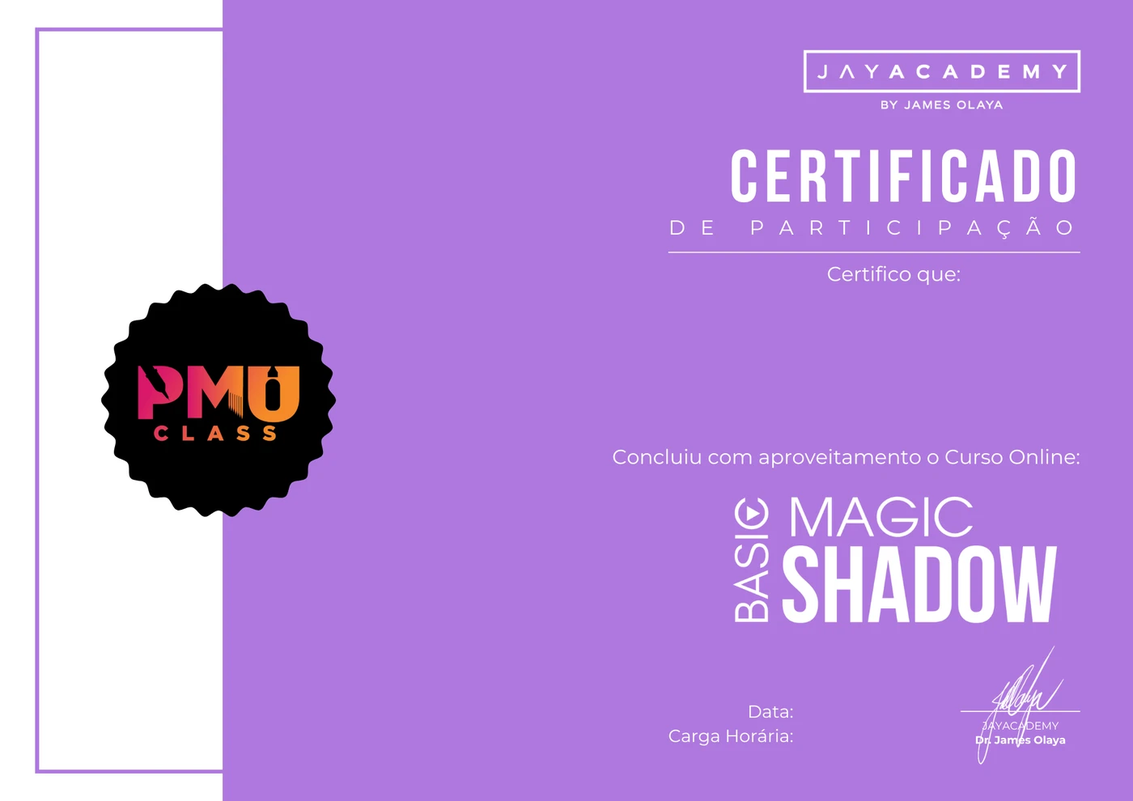
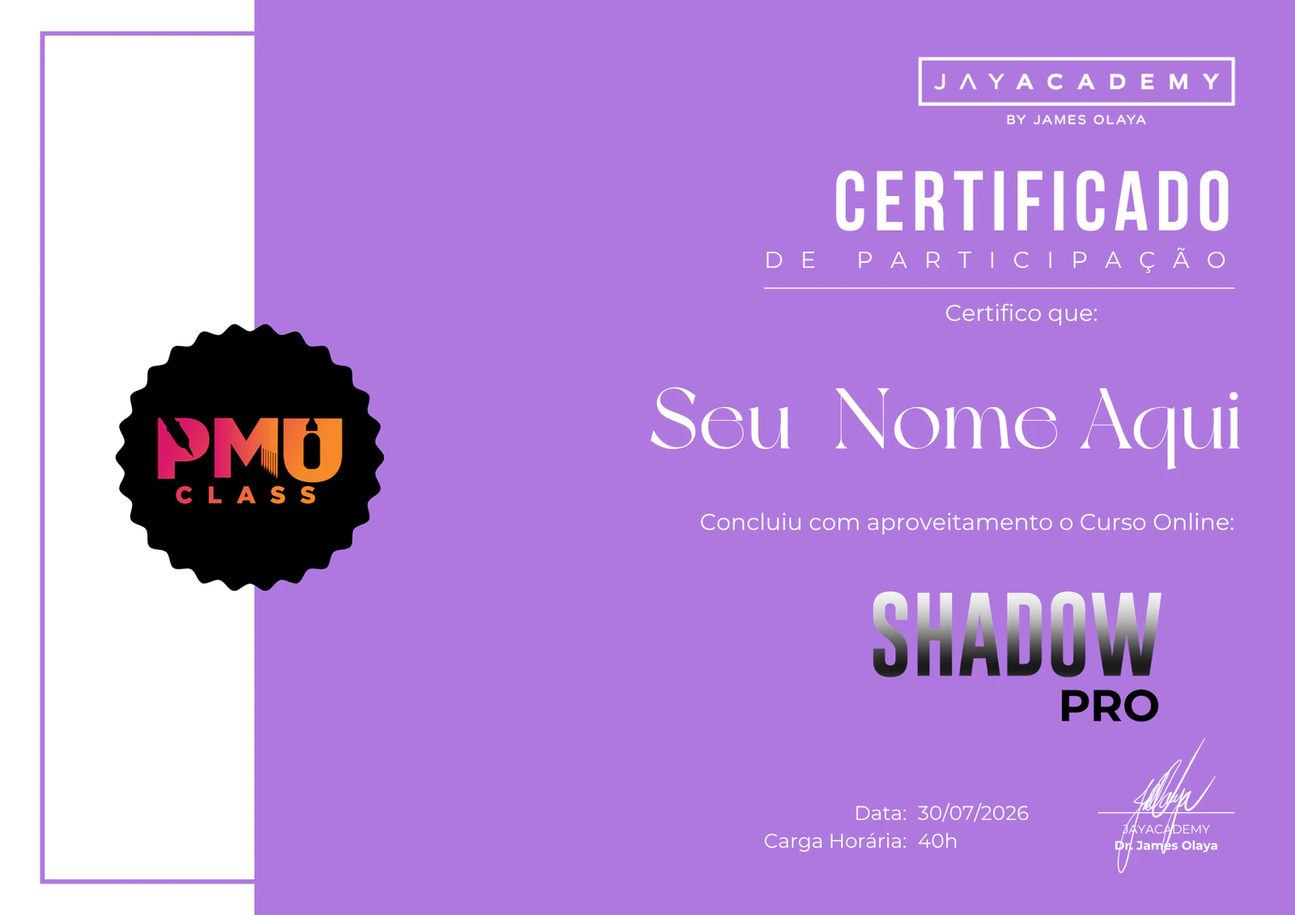
feat(shadow-pro): carrossel OK_RESULTADOS, cicatrizados em cards, oferta redesenhada e certificado certo
- carrossel "Voce tambem pode" refeito com as 10 fotos de OK_RESULTADOS (900x900),
  duas metades identicas p/ o loop infinito
- "Cicatrizados reais": 3 fotos novas + cards (grade no desktop, linhas no mobile)
- oferta: value stack em card unico, preco em Poppins 800 tabular e CTA
  "Quero me inscrever agora" com brilho/pulso respeitando prefers-reduced-motion
- certificado.webp trocado pela arte que diz Shadow PRO (antes dizia Basic Magic Shadow)

diff --git a/lp-html/metodo-shadow-pro.html b/lp-html/metodo-shadow-pro.html
@@ -236,28 +236,37 @@ h1,h2,h3{font-family:'Cormorant Garamond',Georgia,serif;font-weight:700;line-hei
 @media(max-width:640px){.checklist{grid-template-columns:1fr;gap:11px;}.checklist li{padding:15px 15px;}}
 /* ===== CICATRIZADOS (cards com prova) ===== */
 /* ===== CICATRIZADOS — prova sob lente (herói + medalhões ampliados) ===== */
-.proofz{position:relative;max-width:960px;margin:52px auto 0;}
+.proofz{position:relative;max-width:960px;margin:40px auto 0;}
 .proofz__hero{position:relative;border-radius:22px;overflow:hidden;border:1px solid rgba(217,180,88,.28);box-shadow:0 34px 84px rgba(0,0,0,.62);aspect-ratio:16/10;}
 .proofz__hero img{width:100%;height:100%;object-fit:cover;display:block;}
 .proofz__hero::after{content:"";position:absolute;inset:0;pointer-events:none;background:radial-gradient(120% 120% at 50% 40%,transparent 55%,rgba(10,9,12,.45)),linear-gradient(180deg,transparent 58%,rgba(10,9,12,.7));}
 .proofz__stamp{position:absolute;top:16px;right:16px;z-index:3;display:inline-flex;align-items:center;gap:8px;font-family:ui-monospace,'SF Mono',Menlo,monospace;font-size:11px;letter-spacing:.16em;text-transform:uppercase;color:var(--gold2);background:rgba(10,9,12,.55);backdrop-filter:blur(4px);border:1px solid rgba(217,180,88,.4);border-radius:999px;padding:7px 13px;}
 .proofz__stamp::before{content:"";width:7px;height:7px;border-radius:50%;background:#e0563f;box-shadow:0 0 9px #e0563f;}
 .proofz__meta{position:absolute;left:18px;bottom:16px;z-index:3;font-family:ui-monospace,'SF Mono',Menlo,monospace;font-size:11.5px;letter-spacing:.08em;color:#ece0c8;text-shadow:0 2px 10px rgba(0,0,0,.85);}
-.proofz__row{display:flex;justify-content:center;gap:clamp(18px,5vw,60px);margin-top:-58px;position:relative;z-index:4;padding:0 10px;}
-.proofz__lens{display:flex;flex-direction:column;align-items:center;gap:11px;text-align:center;flex:0 0 auto;width:clamp(124px,20vw,176px);}
-.proofz__coin{position:relative;width:clamp(100px,15vw,134px);height:clamp(100px,15vw,134px);border-radius:50%;overflow:hidden;border:3px solid #0a090c;box-shadow:0 0 0 2px var(--gold),0 20px 44px rgba(0,0,0,.62);background:#15121c;transition:transform .4s cubic-bezier(.2,.8,.2,1);}
+.proofz__intro{max-width:680px!important;line-height:1.72;}
+.proofz__row{display:grid;grid-template-columns:repeat(3,minmax(0,1fr));gap:18px;position:relative;z-index:4;}
+.proofz__lens{position:relative;display:flex;flex-direction:column;align-items:center;gap:14px;text-align:center;min-width:0;padding:25px 19px 23px;border:1px solid rgba(217,180,88,.17);border-radius:22px;background:linear-gradient(155deg,rgba(28,23,36,.92),rgba(15,12,19,.96));box-shadow:0 22px 54px rgba(0,0,0,.32);transition:transform .35s ease,border-color .35s ease,box-shadow .35s ease;}
+.proofz__lens:hover{transform:translateY(-5px);border-color:rgba(217,180,88,.42);box-shadow:0 28px 62px rgba(0,0,0,.42);}
+.proofz__coin{position:relative;width:clamp(126px,16vw,166px);height:clamp(126px,16vw,166px);border-radius:50%;overflow:hidden;border:4px solid #0a090c;box-shadow:0 0 0 2px var(--gold),0 20px 44px rgba(0,0,0,.52);background:#15121c;transition:transform .4s cubic-bezier(.2,.8,.2,1);}
 .proofz__lens:hover .proofz__coin{transform:translateY(-5px) scale(1.04);}
 .proofz__coin img{width:100%;height:100%;object-fit:cover;display:block;}
 .proofz__coin::after{content:"";position:absolute;inset:0;border-radius:50%;box-shadow:inset 0 2px 12px rgba(255,255,255,.14),inset 0 -8px 20px rgba(0,0,0,.4);pointer-events:none;}
-.proofz__lens .lbl{display:inline-flex;align-items:center;gap:7px;color:var(--gold2);font-family:'Poppins',sans-serif;font-size:11px;font-weight:700;letter-spacing:.13em;text-transform:uppercase;}
-.proofz__lens .lbl i{font-style:normal;font-family:ui-monospace,monospace;color:var(--gold);opacity:.7;}
-.proofz__lens p{margin:0;color:#c9c1b4;font-size:12.8px;line-height:1.45;}
+.proofz__copy{display:flex;min-width:0;flex-direction:column;align-items:center;gap:8px;}
+.proofz__lens .lbl{display:inline-flex;align-items:center;justify-content:center;gap:8px;color:var(--gold2);font-family:'Poppins',sans-serif;font-size:12px;font-weight:700;letter-spacing:.12em;text-transform:uppercase;line-height:1.35;}
+.proofz__lens .lbl i{display:inline-flex;align-items:center;justify-content:center;flex:0 0 auto;width:28px;height:28px;border-radius:50%;border:1px solid rgba(217,180,88,.38);background:rgba(217,180,88,.08);font-style:normal;font-family:ui-monospace,monospace;font-size:10px;color:var(--gold);}
+.proofz__lens .lbl b{font:inherit;}
+.proofz__lens p{margin:0;color:#c9c1b4;font-size:13px;line-height:1.58;max-width:23ch;}
 @media(max-width:760px){
   .proofz__hero{aspect-ratio:4/5;}
   .proofz__meta{display:none;}
-  .proofz__row{flex-wrap:wrap;gap:26px 14px;margin-top:-46px;}
-  .proofz__lens{width:calc(33.333% - 10px);}
-  .proofz__lens p{font-size:11.5px;}
+  .proofz{margin-top:30px;}
+  .proofz__row{grid-template-columns:1fr;gap:12px;}
+  .proofz__lens{display:grid;grid-template-columns:94px minmax(0,1fr);gap:16px;padding:14px 16px;text-align:left;border-radius:18px;}
+  .proofz__coin{width:90px;height:90px;border-width:3px;}
+  .proofz__copy{align-items:flex-start;gap:6px;}
+  .proofz__lens .lbl{justify-content:flex-start;font-size:11.5px;text-align:left;}
+  .proofz__lens .lbl i{width:25px;height:25px;}
+  .proofz__lens p{max-width:none;font-size:12.5px;line-height:1.5;text-align:left;}
 }
 /* ===== ANTES E DEPOIS (grade) ===== */
 .ba{display:grid;grid-template-columns:repeat(4,1fr);gap:14px;margin-top:42px;}
@@ -354,21 +363,36 @@ h1,h2,h3{font-family:'Cormorant Garamond',Georgia,serif;font-weight:700;line-hei
 .pill{background:var(--card);border:1px solid var(--line);border-radius:999px;padding:10px 20px;color:#e6dfd2;font-size:14px;font-weight:500;display:flex;align-items:center;gap:9px;}
 .pill svg{width:16px;height:16px;}
 /* ===== OFFER / PRICE ===== */
-.offer{background:linear-gradient(180deg,#0a090c 0%,transparent 11%,transparent 89%,#0a090c 100%),radial-gradient(120% 100% at 50% 8%,#1c1710,#0d0a10 60%,#0a090c);}
-.offer__stack{list-style:none;max-width:520px;margin:0 auto 34px;display:grid;gap:2px;}
-.offer__stack li{display:flex;align-items:flex-start;gap:14px;padding:14px 4px;border-bottom:1px solid var(--line2);color:#ece7f0;font-size:clamp(14.5px,1.6vw,16px);font-weight:500;text-align:left;}
+.offer{background:linear-gradient(180deg,#0a090c 0%,transparent 9%,transparent 91%,#0a090c 100%),radial-gradient(100% 70% at 50% 12%,#21190d,#0d0a10 64%,#0a090c);}
+.offer__stack{list-style:none;max-width:700px;margin:32px auto 42px;display:grid;padding:10px 22px;background:linear-gradient(145deg,rgba(28,23,36,.88),rgba(16,13,20,.92));border:1px solid rgba(217,180,88,.16);border-radius:22px;box-shadow:0 22px 55px rgba(0,0,0,.28);}
+.offer__stack li{display:grid;grid-template-columns:auto minmax(0,1fr) auto;align-items:center;gap:14px;padding:17px 4px;border-bottom:1px solid var(--line2);color:#ece7f0;font-size:clamp(14.5px,1.6vw,16px);font-weight:500;text-align:left;}
 .offer__stack li:last-child{border-bottom:none;}
-.offer__stack .chk{margin-top:1px;}
-.offer__stack del{color:#c98;opacity:.85;font-weight:600;white-space:nowrap;}
-.price{max-width:480px;margin:0 auto;background:linear-gradient(#1c1727,#15111e);border-radius:22px;border:1px solid var(--line);box-shadow:0 0 0 1px rgba(217,180,88,.25),0 30px 70px rgba(0,0,0,.55);padding:52px 30px 34px;text-align:center;position:relative;overflow:hidden;}
-.price__k{color:var(--gold);font-size:12px;letter-spacing:.22em;text-transform:uppercase;font-weight:700;margin:2px 0 4px;}
-.price__from{color:var(--muted);font-size:14px;}
-.price__big{font-family:'Cormorant Garamond',serif;color:#fff;font-weight:700;line-height:.95;margin:6px 0 4px;}
-.price__big .x{font-size:clamp(26px,4vw,36px);opacity:.85;}
-.price__big .v{font-size:clamp(50px,10vw,78px);color:var(--gold2);}
-.price__vista{color:var(--gold);font-size:clamp(15px,1.9vw,18px);font-weight:600;margin-bottom:22px;}
+.offer__stack .chk{margin:0;}
+.offer__name{line-height:1.45;}
+.offer__stack del{color:#cda092;opacity:.88;font-size:.9em;font-weight:600;white-space:nowrap;font-variant-numeric:tabular-nums;}
+.price{max-width:540px;margin:0 auto;background:radial-gradient(100% 70% at 50% 0,rgba(217,180,88,.13),transparent 52%),linear-gradient(155deg,#1d1827,#120f19 74%);border-radius:28px;border:1px solid rgba(242,211,138,.3);box-shadow:0 0 0 1px rgba(217,180,88,.12),0 34px 90px rgba(0,0,0,.62),0 0 70px rgba(217,180,88,.08);padding:62px 34px 38px;text-align:center;position:relative;overflow:hidden;}
+.price::after{content:"";position:absolute;left:9%;right:9%;top:0;height:1px;background:linear-gradient(90deg,transparent,var(--gold2),transparent);opacity:.7;}
+.price>*{position:relative;z-index:1;}
+.price__k{color:var(--gold);font-size:clamp(11px,1.4vw,13px);letter-spacing:.2em;text-transform:uppercase;font-weight:700;margin:2px 0 12px;}
+.price__from{color:#c9c1d0;font-size:14px;margin-top:5px;}
+.price__big{display:flex;align-items:center;justify-content:center;gap:13px;color:#fff;line-height:1;margin:14px 0 9px;font-family:'Poppins',system-ui,sans-serif;font-variant-numeric:tabular-nums;}
+.price__big .x{flex:0 0 auto;color:#17100a;background:linear-gradient(180deg,var(--gold2),var(--gold3));border-radius:999px;padding:7px 11px;font-size:clamp(13px,2.2vw,16px);font-weight:800;letter-spacing:.01em;box-shadow:0 8px 22px rgba(184,147,63,.24);}
+.price__big .v{display:inline-flex;align-items:baseline;gap:7px;color:var(--gold2);font-weight:800;letter-spacing:-.045em;}
+.price__big .currency{font-size:clamp(19px,3.2vw,25px);letter-spacing:-.02em;}
+.price__big .amount{font-size:clamp(48px,9vw,70px);}
+.price__vista{display:flex;align-items:baseline;justify-content:center;gap:7px;color:#e7dfec;font-size:13px;margin-bottom:28px;}
+.price__vista strong{color:var(--gold2);font-size:clamp(17px,2.5vw,21px);font-weight:700;font-variant-numeric:tabular-nums;}
 .price .cta{width:100%;box-sizing:border-box;}
-.price__trust{color:var(--muted);font-size:12px;margin-top:16px;}
+.price__cta{position:relative;isolation:isolate;overflow:hidden;display:flex;align-items:center;justify-content:center;gap:12px;min-height:66px;border:1px solid rgba(255,246,215,.68);font-size:clamp(15px,2vw,18px);box-shadow:0 16px 40px rgba(184,147,63,.42),0 0 0 0 rgba(242,211,138,0);animation:priceCtaGlow 3s ease-in-out infinite;}
+.price__cta::before{content:"";position:absolute;z-index:-1;top:-80%;bottom:-80%;left:-55%;width:35%;background:linear-gradient(90deg,transparent,rgba(255,255,255,.78),transparent);transform:rotate(18deg);animation:priceCtaSheen 3.4s cubic-bezier(.4,0,.2,1) infinite;}
+.price__cta b{font-size:24px;font-weight:500;line-height:1;transition:transform .25s ease;}
+.price__cta:hover{transform:translateY(-3px) scale(1.012);}
+.price__cta:hover b{transform:translateX(5px);}
+.price__trust{display:flex;align-items:center;justify-content:center;flex-wrap:wrap;gap:5px 9px;color:var(--muted);font-size:11.5px;margin-top:19px;}
+.price__trust i{color:var(--gold);font-style:normal;}
+@keyframes priceCtaSheen{0%,58%{left:-55%;opacity:0;}64%{opacity:1;}86%,100%{left:125%;opacity:0;}}
+@keyframes priceCtaGlow{0%,100%{box-shadow:0 16px 40px rgba(184,147,63,.4),0 0 0 0 rgba(242,211,138,0);}50%{box-shadow:0 20px 52px rgba(184,147,63,.58),0 0 0 7px rgba(242,211,138,.07);}}
+@media(prefers-reduced-motion:reduce){.price__cta,.price__cta::before{animation:none;}}
 /* ===== GUARANTEE ===== */
 .guar{display:grid;grid-template-columns:auto 1fr;gap:clamp(24px,4vw,44px);align-items:center;max-width:900px;margin:0 auto;background:var(--card);border:1px solid var(--line);border-radius:22px;padding:clamp(30px,4vw,44px);}
 .guar__seal{flex:0 0 auto;width:clamp(110px,14vw,150px);height:clamp(110px,14vw,150px);border-radius:50%;background:radial-gradient(circle at 38% 32%,#2a2233,#14101c);border:2px solid var(--gold);display:flex;flex-direction:column;align-items:center;justify-content:center;box-shadow:0 0 40px rgba(217,180,88,.25);}
@@ -429,11 +453,24 @@ h1,h2,h3{font-family:'Cormorant Garamond',Georgia,serif;font-weight:700;line-hei
 .prob h4{font-size:18px;}
 .prob-vs{text-align:center;font-family:'Cormorant Garamond',serif;font-style:italic;font-size:clamp(20px,2.6vw,30px);color:var(--gold);margin:8px 0 4px;}
 /* ===== oferta com desconto/urgencia ===== */
-.price__badge{position:absolute;top:0;left:50%;transform:translateX(-50%);background:linear-gradient(135deg,#e94b5a,#c0392b);color:#fff;font-family:'Poppins',sans-serif;font-weight:800;font-size:14px;padding:7px 20px;border-radius:0 0 12px 12px;box-shadow:0 10px 22px rgba(192,57,43,.45);letter-spacing:.03em;z-index:2;}
+.price__badge{position:absolute;top:0;left:50%;transform:translateX(-50%);background:linear-gradient(135deg,#e94b5a,#c0392b);color:#fff;font-family:'Poppins',sans-serif;font-weight:800;font-size:14px;padding:9px 24px;border-radius:0 0 14px 14px;box-shadow:0 10px 28px rgba(192,57,43,.42);letter-spacing:.04em;z-index:2;}
 .price__anchor{color:var(--muted);font-size:15px;margin-bottom:2px;}
 .price__anchor s{color:#c98;opacity:.8;}
-.spots{max-width:480px;margin:14px auto 0;background:rgba(233,75,90,.08);border:1px solid rgba(233,75,90,.25);border-radius:12px;padding:12px 18px;color:#f2c4b0;font-size:13px;font-weight:600;display:flex;align-items:center;justify-content:center;gap:9px;}
+.spots{max-width:540px;margin:18px auto 0;background:linear-gradient(135deg,rgba(233,75,90,.09),rgba(233,75,90,.035));border:1px solid rgba(233,75,90,.28);border-radius:14px;padding:14px 20px;color:#f2c4b0;font-size:13px;font-weight:600;display:flex;align-items:center;justify-content:center;gap:11px;}
 .spots svg{width:17px;height:17px;flex:0 0 auto;}
+@media(max-width:520px){
+  .offer__stack{margin-top:26px;padding:7px 15px;border-radius:18px;}
+  .offer__stack li{grid-template-columns:auto minmax(0,1fr);gap:10px 12px;padding:15px 0;}
+  .offer__stack del{grid-column:2;font-size:12.5px;margin-top:-7px;}
+  .price{padding:60px 20px 30px;border-radius:23px;}
+  .price__big{gap:8px;}
+  .price__big .x{padding:6px 9px;}
+  .price__big .v{gap:5px;}
+  .price__cta{min-height:64px;padding-left:18px;padding-right:18px;}
+  .price__trust{max-width:300px;margin-left:auto;margin-right:auto;}
+  .spots{align-items:flex-start;text-align:left;padding:13px 15px;}
+  .spots svg{margin-top:2px;}
+}
 /* ===== RESPONSIVE ===== */
 @media(max-width:900px){
   /* mobile: cena vira banner no topo, texto abaixo (sem texto sobre o James) */
@@ -525,36 +562,28 @@ h1,h2,h3{font-family:'Cormorant Garamond',Georgia,serif;font-weight:700;line-hei
       <button class="carousel__arrow carousel__arrow--l" id="carPrev" type="button" aria-label="Anterior"><svg viewBox="0 0 24 24" width="26" height="26" fill="none" stroke="currentColor" stroke-width="2" stroke-linecap="round" stroke-linejoin="round"><polyline points="15 18 9 12 15 6"/></svg></button>
       <button class="carousel__arrow carousel__arrow--r" id="carNext" type="button" aria-label="Próximo"><svg viewBox="0 0 24 24" width="26" height="26" fill="none" stroke="currentColor" stroke-width="2" stroke-linecap="round" stroke-linejoin="round"><polyline points="9 18 15 12 9 6"/></svg></button>
       <div class="carousel__track" id="carTrack" title="Clique para pausar">
-        <!-- grupo A (14 imagens únicas) -->
-        <figure><img src="/lp/shadow-pro/f1.webp" alt="Resultado aluna Shadow PRO" loading="lazy" decoding="async"></figure>
-        <figure><img src="/lp/shadow-pro/alunas/res-01.webp" alt="Resultado de aluna Jay Academy" loading="lazy" decoding="async"></figure>
-        <figure><img src="/lp/shadow-pro/f2.webp" alt="Resultado aluna Shadow PRO" loading="lazy" decoding="async"></figure>
-        <figure><img src="/lp/shadow-pro/s2.webp" alt="Resultado aluna Shadow PRO" loading="lazy" decoding="async"></figure>
-        <figure><img src="/lp/shadow-pro/f3.webp" alt="Resultado aluna Shadow PRO" loading="lazy" decoding="async"></figure>
-        <figure><img src="/lp/shadow-pro/alunas/res-04.webp" alt="Resultado de aluna Jay Academy" loading="lazy" decoding="async"></figure>
-        <figure><img src="/lp/shadow-pro/s3.webp" alt="Resultado aluna Shadow PRO" loading="lazy" decoding="async"></figure>
-        <figure><img src="/lp/shadow-pro/r2.webp" alt="Resultado aluna Shadow PRO" loading="lazy" decoding="async"></figure>
-        <figure><img src="/lp/shadow-pro/s1.webp" alt="Resultado aluna Shadow PRO" loading="lazy" decoding="async"></figure>
-        <figure><img src="/lp/shadow-pro/alunas/res-08.webp" alt="Resultado de aluna Jay Academy" loading="lazy" decoding="async"></figure>
-        <figure><img src="/lp/shadow-pro/r6.webp" alt="Resultado aluna Shadow PRO" loading="lazy" decoding="async"></figure>
-        <figure><img src="/lp/shadow-pro/alunas/res-09.webp" alt="Resultado de aluna Jay Academy" loading="lazy" decoding="async"></figure>
-        <figure><img src="/lp/shadow-pro/s4.webp" alt="Resultado aluna Shadow PRO" loading="lazy" decoding="async"></figure>
-        <figure><img src="/lp/shadow-pro/alunas/res-10.webp" alt="Resultado de aluna Jay Academy" loading="lazy" decoding="async"></figure>
+        <!-- grupo A (10 imagens únicas, todas de tmp/basic-magic-shadow/OK_RESULTADOS) -->
+        <figure><img src="/lp/shadow-pro/resultados/resultado-01.webp" alt="Resultado real Shadow PRO" loading="lazy" decoding="async"></figure>
+        <figure><img src="/lp/shadow-pro/resultados/resultado-02.webp" alt="Resultado real Shadow PRO" loading="lazy" decoding="async"></figure>
+        <figure><img src="/lp/shadow-pro/resultados/resultado-03.webp" alt="Resultado real Shadow PRO" loading="lazy" decoding="async"></figure>
+        <figure><img src="/lp/shadow-pro/resultados/resultado-04.webp" alt="Resultado real Shadow PRO" loading="lazy" decoding="async"></figure>
+        <figure><img src="/lp/shadow-pro/resultados/resultado-05.webp" alt="Resultado real Shadow PRO" loading="lazy" decoding="async"></figure>
+        <figure><img src="/lp/shadow-pro/resultados/resultado-06.webp" alt="Resultado real Shadow PRO" loading="lazy" decoding="async"></figure>
+        <figure><img src="/lp/shadow-pro/resultados/resultado-07.webp" alt="Resultado real Shadow PRO" loading="lazy" decoding="async"></figure>
+        <figure><img src="/lp/shadow-pro/resultados/resultado-08.webp" alt="Resultado real Shadow PRO" loading="lazy" decoding="async"></figure>
+        <figure><img src="/lp/shadow-pro/resultados/resultado-09.webp" alt="Resultado real Shadow PRO" loading="lazy" decoding="async"></figure>
+        <figure><img src="/lp/shadow-pro/resultados/resultado-10.webp" alt="Resultado real Shadow PRO" loading="lazy" decoding="async"></figure>
         <!-- grupo B — cópia EXATA do grupo A (o loop infinito usa scrollWidth/2) -->
-        <figure><img src="/lp/shadow-pro/f1.webp" alt="Resultado aluna Shadow PRO" loading="lazy" decoding="async"></figure>
-        <figure><img src="/lp/shadow-pro/alunas/res-01.webp" alt="Resultado de aluna Jay Academy" loading="lazy" decoding="async"></figure>
-        <figure><img src="/lp/shadow-pro/f2.webp" alt="Resultado aluna Shadow PRO" loading="lazy" decoding="async"></figure>
-        <figure><img src="/lp/shadow-pro/s2.webp" alt="Resultado aluna Shadow PRO" loading="lazy" decoding="async"></figure>
-        <figure><img src="/lp/shadow-pro/f3.webp" alt="Resultado aluna Shadow PRO" loading="lazy" decoding="async"></figure>
-        <figure><img src="/lp/shadow-pro/alunas/res-04.webp" alt="Resultado de aluna Jay Academy" loading="lazy" decoding="async"></figure>
-        <figure><img src="/lp/shadow-pro/s3.webp" alt="Resultado aluna Shadow PRO" loading="lazy" decoding="async"></figure>
-        <figure><img src="/lp/shadow-pro/r2.webp" alt="Resultado aluna Shadow PRO" loading="lazy" decoding="async"></figure>
-        <figure><img src="/lp/shadow-pro/s1.webp" alt="Resultado aluna Shadow PRO" loading="lazy" decoding="async"></figure>
-        <figure><img src="/lp/shadow-pro/alunas/res-08.webp" alt="Resultado de aluna Jay Academy" loading="lazy" decoding="async"></figure>
-        <figure><img src="/lp/shadow-pro/r6.webp" alt="Resultado aluna Shadow PRO" loading="lazy" decoding="async"></figure>
-        <figure><img src="/lp/shadow-pro/alunas/res-09.webp" alt="Resultado de aluna Jay Academy" loading="lazy" decoding="async"></figure>
-        <figure><img src="/lp/shadow-pro/s4.webp" alt="Resultado aluna Shadow PRO" loading="lazy" decoding="async"></figure>
-        <figure><img src="/lp/shadow-pro/alunas/res-10.webp" alt="Resultado de aluna Jay Academy" loading="lazy" decoding="async"></figure>
+        <figure><img src="/lp/shadow-pro/resultados/resultado-01.webp" alt="Resultado real Shadow PRO" loading="lazy" decoding="async"></figure>
+        <figure><img src="/lp/shadow-pro/resultados/resultado-02.webp" alt="Resultado real Shadow PRO" loading="lazy" decoding="async"></figure>
+        <figure><img src="/lp/shadow-pro/resultados/resultado-03.webp" alt="Resultado real Shadow PRO" loading="lazy" decoding="async"></figure>
+        <figure><img src="/lp/shadow-pro/resultados/resultado-04.webp" alt="Resultado real Shadow PRO" loading="lazy" decoding="async"></figure>
+        <figure><img src="/lp/shadow-pro/resultados/resultado-05.webp" alt="Resultado real Shadow PRO" loading="lazy" decoding="async"></figure>
+        <figure><img src="/lp/shadow-pro/resultados/resultado-06.webp" alt="Resultado real Shadow PRO" loading="lazy" decoding="async"></figure>
+        <figure><img src="/lp/shadow-pro/resultados/resultado-07.webp" alt="Resultado real Shadow PRO" loading="lazy" decoding="async"></figure>
+        <figure><img src="/lp/shadow-pro/resultados/resultado-08.webp" alt="Resultado real Shadow PRO" loading="lazy" decoding="async"></figure>
+        <figure><img src="/lp/shadow-pro/resultados/resultado-09.webp" alt="Resultado real Shadow PRO" loading="lazy" decoding="async"></figure>
+        <figure><img src="/lp/shadow-pro/resultados/resultado-10.webp" alt="Resultado real Shadow PRO" loading="lazy" decoding="async"></figure>
       </div>
     </div></div>
     <script>
@@ -773,7 +802,7 @@ h1,h2,h3{font-family:'Cormorant Garamond',Georgia,serif;font-weight:700;line-hei
   <div class="wrap cert">
     <figure class="cert__ph">
       <span class="ribbon">Certificado oficial</span>
-      <img src="/lp/shadow-pro/certificado.webp" alt="Certificado Jay Academy — assinado por James Olaya">
+      <img src="/lp/shadow-pro/certificado.webp" alt="Certificado Shadow PRO da Jay Academy — assinado por James Olaya">
     </figure>
     <div>
       <span class="eyebrow">Autoridade validada</span>
@@ -794,23 +823,23 @@ h1,h2,h3{font-family:'Cormorant Garamond',Georgia,serif;font-weight:700;line-hei
     <div class="meandro"></div>
     <p class="sec-sub">Comprando agora você leva:</p>
     <ul class="offer__stack">
-      <li><span class="chk"><svg viewBox="0 0 24 24" fill="none" stroke="#1a1206" stroke-width="3.4" stroke-linecap="round" stroke-linejoin="round"><path d="M4 12.5l5 5L20 6.5"/></svg></span>Curso Online Shadow PRO <del>R$&nbsp;997,00</del></li>
-      <li><span class="chk"><svg viewBox="0 0 24 24" fill="none" stroke="#1a1206" stroke-width="3.4" stroke-linecap="round" stroke-linejoin="round"><path d="M4 12.5l5 5L20 6.5"/></svg></span>Bônus: Design de Sobrancelhas com Visagismo <del>R$&nbsp;397,00</del></li>
-      <li><span class="chk"><svg viewBox="0 0 24 24" fill="none" stroke="#1a1206" stroke-width="3.4" stroke-linecap="round" stroke-linejoin="round"><path d="M4 12.5l5 5L20 6.5"/></svg></span>Ebook — Pigmentologia e Colorimetria, o guia final <del>R$&nbsp;97,00</del></li>
-      <li><span class="chk"><svg viewBox="0 0 24 24" fill="none" stroke="#1a1206" stroke-width="3.4" stroke-linecap="round" stroke-linejoin="round"><path d="M4 12.5l5 5L20 6.5"/></svg></span>Possibilidade de acesso vitalício (valor especial) <del>R$&nbsp;297,00</del></li>
-      <li><span class="chk"><svg viewBox="0 0 24 24" fill="none" stroke="#1a1206" stroke-width="3.4" stroke-linecap="round" stroke-linejoin="round"><path d="M4 12.5l5 5L20 6.5"/></svg></span>Atualizações do conteúdo <del>R$&nbsp;197,00</del></li>
-      <li><span class="chk"><svg viewBox="0 0 24 24" fill="none" stroke="#1a1206" stroke-width="3.4" stroke-linecap="round" stroke-linejoin="round"><path d="M4 12.5l5 5L20 6.5"/></svg></span>Certificado de conclusão</li>
-      <li><span class="chk"><svg viewBox="0 0 24 24" fill="none" stroke="#1a1206" stroke-width="3.4" stroke-linecap="round" stroke-linejoin="round"><path d="M4 12.5l5 5L20 6.5"/></svg></span>Desconto exclusivo na Jayloja.com</li>
+      <li><span class="chk"><svg viewBox="0 0 24 24" fill="none" stroke="#1a1206" stroke-width="3.4" stroke-linecap="round" stroke-linejoin="round"><path d="M4 12.5l5 5L20 6.5"/></svg></span><span class="offer__name">Curso Online Shadow PRO</span><del>R$&nbsp;997,00</del></li>
+      <li><span class="chk"><svg viewBox="0 0 24 24" fill="none" stroke="#1a1206" stroke-width="3.4" stroke-linecap="round" stroke-linejoin="round"><path d="M4 12.5l5 5L20 6.5"/></svg></span><span class="offer__name">Bônus: Design de Sobrancelhas com Visagismo</span><del>R$&nbsp;397,00</del></li>
+      <li><span class="chk"><svg viewBox="0 0 24 24" fill="none" stroke="#1a1206" stroke-width="3.4" stroke-linecap="round" stroke-linejoin="round"><path d="M4 12.5l5 5L20 6.5"/></svg></span><span class="offer__name">Ebook — Pigmentologia e Colorimetria, o guia final</span><del>R$&nbsp;97,00</del></li>
+      <li><span class="chk"><svg viewBox="0 0 24 24" fill="none" stroke="#1a1206" stroke-width="3.4" stroke-linecap="round" stroke-linejoin="round"><path d="M4 12.5l5 5L20 6.5"/></svg></span><span class="offer__name">Possibilidade de acesso vitalício (valor especial)</span><del>R$&nbsp;297,00</del></li>
+      <li><span class="chk"><svg viewBox="0 0 24 24" fill="none" stroke="#1a1206" stroke-width="3.4" stroke-linecap="round" stroke-linejoin="round"><path d="M4 12.5l5 5L20 6.5"/></svg></span><span class="offer__name">Atualizações do conteúdo</span><del>R$&nbsp;197,00</del></li>
+      <li><span class="chk"><svg viewBox="0 0 24 24" fill="none" stroke="#1a1206" stroke-width="3.4" stroke-linecap="round" stroke-linejoin="round"><path d="M4 12.5l5 5L20 6.5"/></svg></span><span class="offer__name">Certificado de conclusão</span></li>
+      <li><span class="chk"><svg viewBox="0 0 24 24" fill="none" stroke="#1a1206" stroke-width="3.4" stroke-linecap="round" stroke-linejoin="round"><path d="M4 12.5l5 5L20 6.5"/></svg></span><span class="offer__name">Desconto exclusivo na Jayloja.com</span></li>
     </ul>
     <div class="price">
       <span class="price__badge">🔥 OFERTA</span>
       <div class="price__k">Pacote completo · Condição promocional</div>
       <div class="price__anchor">de <s>R$&nbsp;1.985,00</s></div>
       <div class="price__from">hoje por apenas</div>
-      <div class="price__big"><span class="x">12x</span> <span class="v">R$&nbsp;10,03</span></div>
-      <div class="price__vista">ou R$ 97,00 à vista</div>
-      <a class="cta" href="https://pay.hotmart.com/E98531587I?checkoutMode=10&off=k2warcrt">Quero garantir meu acesso</a>
-      <div class="price__trust">Compra segura · Acesso imediato · Garantia de 7 dias</div>
+      <div class="price__big"><span class="x">12×</span><span class="v"><span class="currency">R$</span><span class="amount">10,03</span></span></div>
+      <div class="price__vista"><span>ou</span><strong>R$ 97,00</strong><span>à vista</span></div>
+      <a class="cta price__cta" href="https://pay.hotmart.com/E98531587I?checkoutMode=10&off=k2warcrt"><span>Quero me inscrever agora</span><b aria-hidden="true">→</b></a>
+      <div class="price__trust"><span>Compra segura</span><i>•</i><span>Acesso imediato</span><i>•</i><span>Garantia de 7 dias</span></div>
     </div>
     <div class="spots"><svg viewBox="0 0 24 24" fill="none" stroke="#e97" stroke-width="2" stroke-linecap="round" stroke-linejoin="round"><circle cx="12" cy="12" r="9"/><path d="M12 8v4M12 16h.01"/></svg> Condição promocional: o valor pode subir sem aviso. Entrando hoje, você trava esse preço.</div>
   </div>
@@ -836,23 +865,29 @@ h1,h2,h3{font-family:'Cormorant Garamond',Georgia,serif;font-weight:700;line-hei
     <span class="eyebrow c">Sem filtro, sem fantasia</span>
     <h2 class="sec-title">Cicatrizados reais, <span class="gold">sem fantasia</span></h2>
     <div class="meandro"></div>
-    <p class="sec-sub">Quando o Shadow é bem executado, a cicatrização mostra: degradê limpo, bordas suaves e cor estável. Isso não é sorte. É um método.</p>
+    <p class="sec-sub proofz__intro">O resultado verdadeiro aparece depois da cicatrização. É quando você reconhece os três sinais de um Shadow bem executado:</p>
     <div class="proofz">
       <div class="proofz__row">
         <div class="proofz__lens">
-          <div class="proofz__coin"><img src="/lp/shadow-pro/alunas/res-05.webp" alt="Detalhe do degradê" loading="lazy"></div>
-          <span class="lbl"><i>01</i> Degradê limpo</span>
-          <p>Transição suave da base ao topo, sem marcação.</p>
+          <div class="proofz__coin"><img src="/lp/shadow-pro/resultados/resultado-01.webp" alt="Sobrancelha com degradê limpo" loading="lazy"></div>
+          <div class="proofz__copy">
+            <span class="lbl"><i>01</i><b>Degradê limpo</b></span>
+            <p>Transição suave da base ao topo, sem marcação aparente.</p>
+          </div>
         </div>
         <div class="proofz__lens">
-          <div class="proofz__coin"><img src="/lp/shadow-pro/alunas/res-03.webp" alt="Detalhe da cor" loading="lazy" style="object-position:center 32%;"></div>
-          <span class="lbl"><i>02</i> Cor estável</span>
-          <p>Pigmento fixado sem virar tons indesejados.</p>
+          <div class="proofz__coin"><img src="/lp/shadow-pro/cicatrizados/img-3653.webp" alt="Sobrancelhas com cor estável" loading="lazy"></div>
+          <div class="proofz__copy">
+            <span class="lbl"><i>02</i><b>Cor estável</b></span>
+            <p>Pigmento fixado com equilíbrio, sem virar tons indesejados.</p>
+          </div>
         </div>
         <div class="proofz__lens">
-          <div class="proofz__coin"><img src="/lp/shadow-pro/alunas/res-10.webp" alt="Detalhe das bordas" loading="lazy"></div>
-          <span class="lbl"><i>03</i> Bordas suaves</span>
-          <p>Acabamento uniforme que valoriza o olhar.</p>
+          <div class="proofz__coin"><img src="/lp/shadow-pro/resultados/resultado-09.webp" alt="Sobrancelha com bordas suaves" loading="lazy"></div>
+          <div class="proofz__copy">
+            <span class="lbl"><i>03</i><b>Bordas suaves</b></span>
+            <p>Acabamento uniforme, elegante e sem contornos pesados.</p>
+          </div>
         </div>
       </div>
     </div>

diff --git a/notas/progresso-atual.md b/notas/progresso-atual.md
@@ -2,7 +2,57 @@
 
 > **Estado vivo do portal.** Atualizar ao fim de CADA sessão. Substitui handoffs.
 >
-> **Última atualização**: 2026-07-30 — **vídeo em autoplay na ficha técnica da `/metodo-shadow-pro`** + **novas fotos nos 4 pilares da `/metodo-shadow-pro`** + **curadoria do carrossel da `/metodo-shadow-pro` + remoção total da `res-02.webp`** + **slug `/metodo-shadow-pro` + GTM-NGVQTHXT + `_fbp`/`_fbc` no CAPI** + **UX mobile da `/metodo-shadow-pro-2` (hero maior, fotos quadradas, prova subiu pro topo)** + mais prova visual na `/metodo-shadow-pro-2` (antes-e-depois + carrossel dobrado) + copy da `/basic-magic-shadow` (CTAs imperativos + fim da escassez) + GTM por página (mapa slug → container) + política de tracking por página + auditoria dos links de checkout Hotmart + Basic Magic Shadow v2 promovida ao slug oficial + auditoria do Meta Pixel + varredura de segurança**
+> **Última atualização**: 2026-07-30 — **cards e fotos da seção “Cicatrizados reais” da `/metodo-shadow-pro`** + **nova diagramação e CTA animado na oferta da `/metodo-shadow-pro`** + **carrossel da `/metodo-shadow-pro` reconstruído só com `OK_RESULTADOS`** + **certificado correto do Shadow PRO na `/metodo-shadow-pro`** + **vídeo em autoplay na ficha técnica da `/metodo-shadow-pro`** + **novas fotos nos 4 pilares da `/metodo-shadow-pro`** + **slug `/metodo-shadow-pro` + GTM-NGVQTHXT + `_fbp`/`_fbc` no CAPI** + **UX mobile da `/metodo-shadow-pro-2` (hero maior, fotos quadradas, prova subiu pro topo)** + mais prova visual na `/metodo-shadow-pro-2` (antes-e-depois + carrossel dobrado) + copy da `/basic-magic-shadow` (CTAs imperativos + fim da escassez) + GTM por página (mapa slug → container) + política de tracking por página + auditoria dos links de checkout Hotmart + Basic Magic Shadow v2 promovida ao slug oficial + auditoria do Meta Pixel + varredura de segurança**
+
+---
+
+## 🔍 Sessão 2026-07-30 (parte 9) — “Cicatrizados reais” reformulada
+
+- As três imagens da seção foram trocadas, na ordem solicitada: `0823D46E...`, `IMG_3653` e `IMG_4882`.
+- A primeira e a terceira reutilizam os recortes 900×900 já aprovados do carrossel. `IMG_3653` ganhou
+  um recorte exclusivo mais fechado em `public/lp/shadow-pro/cicatrizados/img-3653.webp`, centralizado
+  nas duas sobrancelhas.
+- Texto de abertura ficou mais curto e hierárquico; os três atributos agora usam cards completos.
+- Desktop: grade de três cards. Mobile: três linhas horizontais com foto, número, atributo e explicação,
+  eliminando o texto espremido em três colunas.
+- QA visual headless em 390 px concluído; assets carregaram em 900×900.
+
+---
+
+## ✨ Sessão 2026-07-30 (parte 8) — oferta e CTA reformulados
+
+- Value stack passou de linhas soltas para um card único; nomes e valores riscados agora têm colunas
+  próprias no desktop e duas linhas organizadas no mobile.
+- Card de preço ganhou mais hierarquia, respiro, borda luminosa e separação clara entre ancoragem,
+  parcelamento, valor e pagamento à vista.
+- `R$ 10,03` saiu da Cormorant e passou para **Poppins 800**, com algarismos tabulares, moeda separada e
+  menor espaçamento entre dígitos para leitura imediata.
+- CTA virou “Quero me inscrever agora”, com seta, brilho deslizante e pulso de luz dourado. As animações
+  respeitam `prefers-reduced-motion`.
+- QA visual headless em 390 px: seção com 390×1461, sem overflow; textos, preços e botão sem cortes.
+
+---
+
+## 🖼 Sessão 2026-07-30 (parte 7) — carrossel reconstruído com `OK_RESULTADOS`
+
+- A seleção anterior do carrossel “Você também pode” estava incorreta e foi removida integralmente.
+- Nova fonte única: as **10 imagens** existentes em `tmp/basic-magic-shadow/OK_RESULTADOS/`.
+- Gerados 10 WebPs em `public/lp/shadow-pro/resultados/`, todos quadrados 900×900 e com as sobrancelhas
+  centralizadas. Sete usaram recorte por atenção; `7E2280...`, `IMG_3608` e `IMG_3653` receberam recortes
+  manuais por serem fotos mais abertas.
+- O carrossel agora tem duas metades idênticas de 10 imagens, preservando o loop infinito.
+- Os assets antigos não foram apagados porque continuam usados em outras seções da LP; saíram somente
+  deste carrossel.
+
+---
+
+## 🎓 Sessão 2026-07-30 (parte 6) — certificado correto do Shadow PRO
+
+- `public/lp/shadow-pro/certificado.webp` foi substituído pela arte
+  `tmp/SHADOWPRO_ONLINE - CERTIFICADO PMUCLASS.png`, que identifica corretamente o curso **Shadow PRO**.
+- Exportação WebP em 1600×1131, qualidade 92, 63 KB; o PNG original em `tmp/` foi preservado.
+- O HTML continua usando o mesmo caminho do asset; alt atualizado para “Certificado Shadow PRO”.
+- Resolvida a pendência histórica: o certificado anterior exibia “Basic Magic Shadow”.
 
 ---
 
@@ -34,8 +84,8 @@
 ## 🖼 Sessão 2026-07-30 (parte 3) — curadoria visual da `/metodo-shadow-pro`
 
 - Eyebrow do carrossel: **“Prova social” → “Você também pode”**.
-- Carrossel reduzido de 20 para **14 imagens únicas**; as duas metades seguem idênticas para preservar o
-  loop infinito. Removidas: `res-02`, `res-03`, `r5`, `res-05`, `res-06` e `res-07`.
+- Naquela rodada, o carrossel havia sido reduzido de 20 para 14 imagens únicas. **Seleção substituída
+  integralmente na parte 7** pelas 10 fotos da pasta `OK_RESULTADOS`.
 - `res-02.webp` removida também da seção “Cicatrizados” e excluída de
   `public/lp/shadow-pro/alunas/`, portanto deixa de existir em toda a LP e no endereço público após deploy.
 - `res-03`, `res-05` e as demais imagens pedidas apenas para o carrossel continuam nas outras composições
@@ -729,7 +779,9 @@ Continuação do overhaul. James pediu, seção por seção, "algo muito visual/
 - **Blueprint** ("Tudo o que você precisa") → ficha técnica com grid, crosshairs e leader lines.
 - **Para quem** → split diagonal (clip-path) é/não é pra você.
 - **Bio ("Seu professor")** → **capa editorial**: retrato dupla-exposição (Higgsfield nano_banana_pro — rosto real do James + degradê de shadow dourado fundido no peito, `james-dx.webp`) sangrando pela direita + texto/creds/**assinatura** à esquerda.
-- **Certificado** → substituído placeholder pelo **certificado real** ([certificado.webp](../public/lp/shadow-pro/certificado.webp)) emoldurado (inclinação, brilho, selo "Certificado oficial", hover endireita). ⚠ o cert diz "BASIC MAGIC SHADOW", não "Shadow PRO" — James avisado, pode querer trocar depois.
+- **Certificado** → substituído placeholder pelo certificado real emoldurado (inclinação, brilho, selo
+  “Certificado oficial”, hover endireita). O primeiro asset dizia “BASIC MAGIC SHADOW”; a pendência foi
+  resolvida em 30/07 com o certificado correto do **Shadow PRO**.
 - **Resultados** → carrossel **igual ao "resultados reais" do fio a fio** (marquee auto-scroll + setas + fade + clique-pausa), adaptado ao dourado. Removidos prints ruins (r1 marca-d'água VOGUE, r3 grupo banco-de-imagem, r4 rosto pesado). Imagens limpas: f1-f3, r2/r5/r6 + **4 novas do acervo Magic Shadow** ([s1-s4.webp](../public/lp/shadow-pro/)).
 - **Cicatrizados ("sem fantasia")** → **"prova sob lente"**: foto-herói + carimbo "Sem filtro · RAW" + 3 **medalhões circulares ampliados** (lupa) Degradê/Cor/Bordas. Trocou grid de 3 cards; imagens s4 (herói) + s3/s2/s1.
 - **Emendas pretas entre dobras** aplicadas em TODAS (flat `--bg2` e radiais `.tecnica/.bio/.offer`), desktop + mobile.
